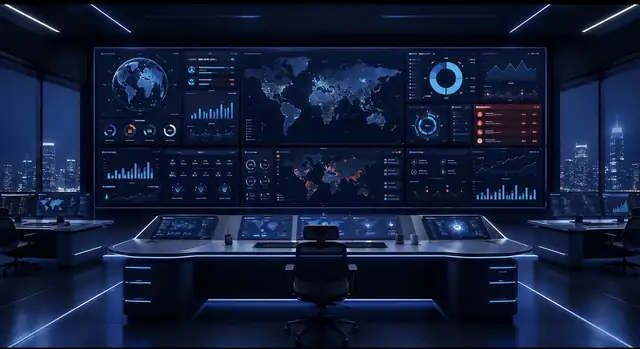
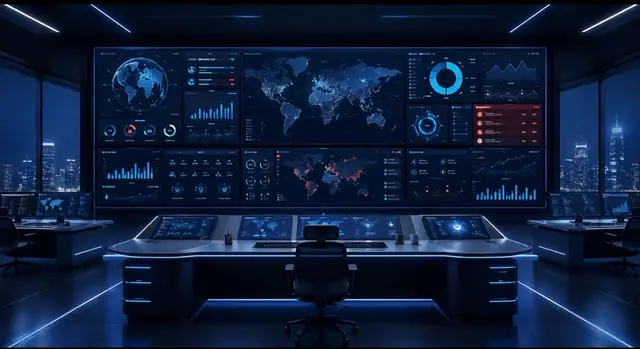
fix(home): show exact owner image before SADEED film [skip ci]
Use the attached 1280x698 original with uncropped responsive derivatives, prioritize the opening image, and invalidate the previous mobile image cache. Keep film media and controls unchanged.

Owner explicitly authorized direct production delivery without CI on 2026-11-24. Local typecheck, ESLint, build, performance/contrast budgets, secrets, audit and 88 focused tests passed; responsive Arabic/English browser checks passed. Full suite encountered reproduced environment subprocess restrictions and load timeouts in unchanged modules.

diff --git a/src/components/home/home-brand.contract.test.ts b/src/components/home/home-brand.contract.test.ts
@@ -43,22 +43,22 @@ const OWNER = {
     "An AI assistant giving executive insight into industrial security across all Saudi regions.",
 };
 const IMAGE_CEILING = 400 * 1024;
-const OWNER_IMAGE_ARCHIVE = "docs/design/reference/command-room-owner-package-2026-11-23.jpeg";
[1 lines of base64/hex data omitted]
+const OWNER_IMAGE_ARCHIVE = "docs/design/reference/command-room-owner-2026-11-23.jpg";
[1 lines of base64/hex data omitted]
 const OPENING_VARIANTS = [
   {
     file: "command-room-640.webp",
     width: 640,
     height: 349,
-    bytes: 19286,
[1 lines of base64/hex data omitted]
+    bytes: 21112,
[1 lines of base64/hex data omitted]
   },
   {
-    file: "command-room-1320.webp",
-    width: 1320,
-    height: 720,
-    bytes: 58736,
[1 lines of base64/hex data omitted]
+    file: "command-room-1280.webp",
+    width: 1280,
+    height: 698,
+    bytes: 54304,
[1 lines of base64/hex data omitted]
   },
 ] as const;
 const FILM_CEILING = { each: 4_500_000, phone: 2_000_000, total: 10_000_000 };
@@ -255,11 +255,11 @@ function mountHero(locale: "ar" | "en" = "ar") {
 describe("static owner opening image", () => {
   it("archives the exact original owner JPEG without shipping another public copy", () => {
     const bytes = readFileSync(OWNER_IMAGE_ARCHIVE);
-    expect(bytes.length).toBe(227440);
+    expect(bytes.length).toBe(189560);
     expect(createHash("sha256").update(bytes).digest("hex")).toBe(OWNER_IMAGE_SHA256);
-    expect(jpegSize(bytes)).toEqual({ width: 1320, height: 720 });
+    expect(jpegSize(bytes)).toEqual({ width: 1280, height: 698 });
     expect(readdirSync("public/home/command-room").sort()).toEqual([
-      "command-room-1320.webp",
+      "command-room-1280.webp",
       "command-room-640.webp",
       "manifest.json",
     ]);
@@ -269,7 +269,7 @@ describe("static owner opening image", () => {
     const manifest = JSON.parse(readFileSync("public/home/command-room/manifest.json", "utf8"));
     expect(manifest.original).toBe(OWNER_IMAGE_ARCHIVE);
     expect(manifest.sha256).toBe(OWNER_IMAGE_SHA256);
-    expect(manifest.originalBytes).toBe(227440);
+    expect(manifest.originalBytes).toBe(189560);
     expect(manifest.variants).toEqual(OPENING_VARIANTS);
     for (const variant of OPENING_VARIANTS) {
       const bytes = readFileSync(`public/home/command-room/${variant.file}`);
@@ -279,7 +279,7 @@ describe("static owner opening image", () => {
         width: variant.width,
         height: variant.height,
       });
-      expect(variant.height).toBe(Math.round((variant.width * 720) / 1320));
+      expect(variant.height).toBe(Math.round((variant.width * 698) / 1280));
     }
   });
 
@@ -296,11 +296,11 @@ describe("static owner opening image", () => {
       });
     expect(candidates).toEqual(
       OPENING_VARIANTS.map((variant) => ({
-        src: `/home/command-room/${variant.file}`,
+        src: `/home/command-room/${variant.file}${variant.width === 640 ? "?v=aac28d35a22b" : ""}`,
         width: variant.width,
       })),
     );
-    expect(image).toHaveAttribute("src", "/home/command-room/command-room-1320.webp");
+    expect(image).toHaveAttribute("src", "/home/command-room/command-room-1280.webp");
     expect(image.getAttribute("sizes")).toBe(HOME_OPENING_IMAGE.sizes);
     expect(image.getAttribute("sizes")).toMatch(/100vw/);
     view.unmount();
@@ -339,7 +339,7 @@ describe("static owner opening image", () => {
     },
   );
 
-  it("ships the responsive room image lazily after the identity film before hydration effects", () => {
+  it("prioritizes the exact attached image before the identity film before hydration effects", () => {
     const server = document.createElement("div");
     server.innerHTML = renderToString(
       createElement(I18nProvider, null, createElement(HomeBrandRow)),
@@ -347,15 +347,15 @@ describe("static owner opening image", () => {
     const figure = server.querySelector('[data-testid="home-opening-image"]')!;
     const image = figure.querySelector("img")!;
     expect(
-      server.querySelector(".identity-film-hero")!.compareDocumentPosition(figure) &
+      figure.compareDocumentPosition(server.querySelector(".identity-film-hero")!) &
         Node.DOCUMENT_POSITION_FOLLOWING,
     ).not.toBe(0);
-    expect(image).toHaveAttribute("loading", "lazy");
-    expect(image).toHaveAttribute("fetchpriority", "auto");
+    expect(image).toHaveAttribute("loading", "eager");
+    expect(image).toHaveAttribute("fetchpriority", "high");
     expect(image).toHaveAttribute("decoding", "async");
-    expect(image).toHaveAttribute("width", "1320");
-    expect(image).toHaveAttribute("height", "720");
-    expect(BRAND_RATIO).toEqual({ width: 1320, height: 720 });
+    expect(image).toHaveAttribute("width", "1280");
+    expect(image).toHaveAttribute("height", "698");
+    expect(BRAND_RATIO).toEqual({ width: 1280, height: 698 });
     expect(image.getAttribute("src")).toMatch(/\.webp$/);
     expect(image.getAttribute("srcset")).toBeTruthy();
     expect(image.getAttribute("sizes")).toBeTruthy();
@@ -371,7 +371,7 @@ describe("static owner opening image", () => {
     const poster = declarations(".nx-command-room-poster");
     expect(poster["inline-size"]).toBe("100%");
     expect(poster["block-size"]).toBe("auto");
-    expect(poster["aspect-ratio"]).toBe("1320 / 720");
+    expect(poster["aspect-ratio"]).toBe("1280 / 698");
     expect(poster["object-fit"]).toBe("contain");
     expect(sceneStyleGaps(CSS)).toEqual([]);
   });

diff --git a/src/components/home/HomeBrandRow.tsx b/src/components/home/HomeBrandRow.tsx
@@ -1,4 +1,4 @@
-/** Owner update: narrated identity first, then the unchanged command-room photograph. */
+/** Owner update: exact attached command-room image before the narrated identity film (2026-11-24). */
 import { useEffect, useRef, useState, type RefObject } from "react";
 import { useI18n } from "@/lib/i18n";
 import { HomeTicker } from "@/components/home/HomeTicker";
@@ -6,7 +6,7 @@ import { IdentityFilmHero } from "@/components/home/IdentityFilmHero";
 import { CommandRoomScreens } from "@/components/home/CommandRoomScreens";
 import "@/styles/home/home-brand.css";
 
-export const BRAND_RATIO = { width: 1320, height: 720 } as const;
+export const BRAND_RATIO = { width: 1280, height: 698 } as const;
 // Shared historical tier tolerance; the opening film remains unchanged in the gallery.
 export const FILM_UPSCALE_LIMIT = 1.15;
 export {
@@ -18,9 +18,9 @@ export {
 } from "./brand-film-playback";
 
 export const HOME_OPENING_IMAGE = {
-  src: "/home/command-room/command-room-1320.webp",
+  src: "/home/command-room/command-room-1280.webp",
   srcSet:
-    "/home/command-room/command-room-640.webp 640w, /home/command-room/command-room-1320.webp 1320w",
+    "/home/command-room/command-room-640.webp?v=aac28d35a22b 640w, /home/command-room/command-room-1280.webp 1280w",
   sizes: "(min-width: 1664px) 1394px, (min-width: 1024px) calc(100vw - 270px), calc(100vw - 46px)",
   alt: {
     ar: "غرفة قيادة زرقاء بخرائط ومؤشرات ومكاتب؛ صورة توضيحية.",
@@ -161,7 +161,6 @@ export function HomeBrandRow() {
       data-offscreen={offscreen || undefined}
     >
       <HomeTicker offscreen={offscreen} ready={known} />
-      <IdentityFilmHero />
       <figure className="nx-brand" data-kind="command-room" data-testid="home-opening-image">
         <div ref={imageRef} className="nx-command-room-stage">
           <img
@@ -171,9 +170,9 @@ export function HomeBrandRow() {
             width={BRAND_RATIO.width}
             height={BRAND_RATIO.height}
             alt={ar ? HOME_OPENING_IMAGE.alt.ar : HOME_OPENING_IMAGE.alt.en}
-            loading="lazy"
+            loading="eager"
             decoding="async"
-            fetchPriority="auto"
+            fetchPriority="high"
             className="nx-command-room-poster"
           />
           <CommandRoomScreens active={roomActive} />
@@ -210,6 +209,7 @@ export function HomeBrandRow() {
           </button>
         </figcaption>
       </figure>
+      <IdentityFilmHero />
     </section>
   );
 }

diff --git a/src/styles/home/home-brand.css b/src/styles/home/home-brand.css
@@ -1,4 +1,4 @@
-/* Owner's full-frame command-room image after the identity film, 2026-11-23.
+/* Owner's full-frame command-room image before the identity film, 2026-11-24.
    Text sits below the photograph so the entire scene remains visible at every width. */
 .nx-home-brand {
   display: flex;
@@ -20,13 +20,13 @@
   display: block;
   inline-size: 100%;
   block-size: auto;
-  aspect-ratio: 1320 / 720;
+  aspect-ratio: 1280 / 698;
   object-fit: contain;
 }
 
 .nx-command-room-stage {
   position: relative;
-  aspect-ratio: 1320 / 720;
+  aspect-ratio: 1280 / 698;
 }
 .nx-command-room-motion-toggle {
   margin-block-start: 12px;

diff --git a/specs/006-cinematic-voice-activation/home-image-before-film.md b/specs/006-cinematic-voice-activation/home-image-before-film.md
@@ -1,0 +1,21 @@
+# Owner follow-up — 2026-11-24
+
+The owner requested the exact attached command-room image before the SADEED film
+on the system homepage, with direct deployment and no CI. This supersedes the
+film-first order and 1320×720 package image in FR-001/FR-003 for this small change.
+No workflow or deployment-protection setting is weakened.
+
+Acceptance: the homepage renders one full-frame responsive derivative of the
[1 lines of base64/hex data omitted]
+before `IdentityFilmHero`, in Arabic and English, without horizontal overflow.
+The film controls/media and localized image disclosure remain intact.
+
+Implementation: reuse `HomeBrandRow`, the existing image-preparation script and
+archived exact JPEG; replace the two served WebP variants, retain their manifest,
+move the existing figure above the film and prioritize its first-screen loading.
+The existing normalized screen-light overlay remains inside the same screens.
+Public/home image bytes decrease by 2,606 B; the 400 KiB ceiling is unchanged.
+
+Verification uses the existing image/order/byte contracts, TypeScript, ESLint,
+local build/budgets and responsive browser inspection. Results and release
+receipts are recorded only after observation; no CI result is claimed.
